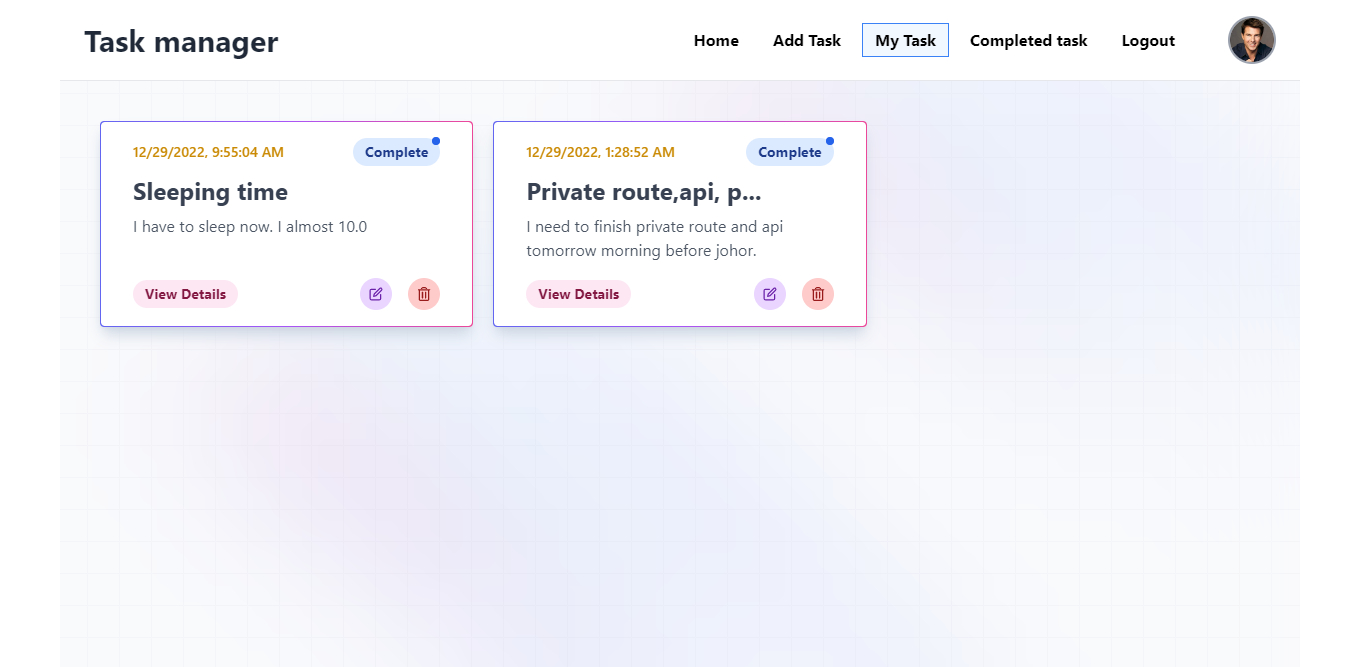
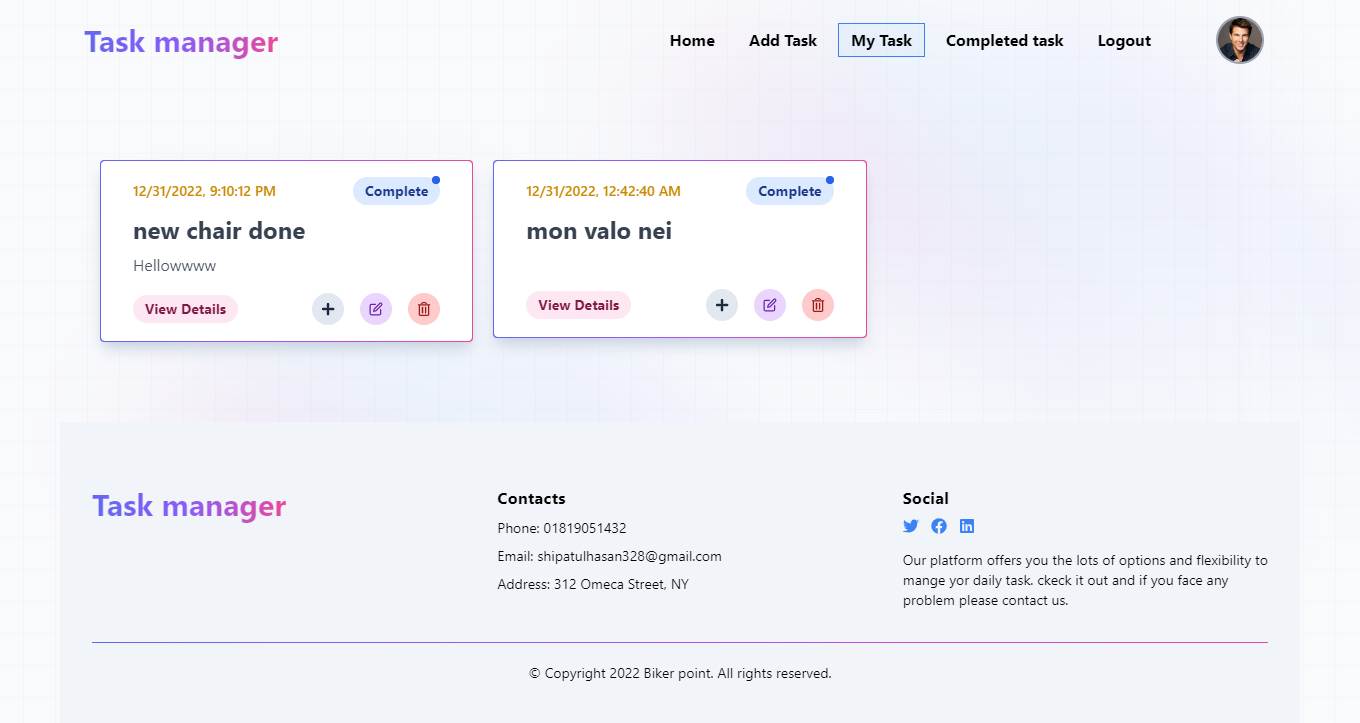
api updated

diff --git a/src/component/pages/MyTasks/MyTask.js b/src/component/pages/MyTasks/MyTask.js
@@ -3,12 +3,15 @@ import {useSelector,useDispatch} from 'react-redux'
 import { useNavigate } from 'react-router-dom';
 import { uploadImage } from '../../../api/uploadImage';
 import { deleteTask, fetchTasks, updateTask } from '../../../Slices/taskSlice';
+
 import UpdateTask from '../UpdateTask';
 import DetailsTask from './DetailsTask';
 import TaskCard from './TaskCard';
+import TaskSkeleton from './TaskSkeleton'
+
 
 const MyTask = ({myTasks}) => {
-    const {updateLoading,updateStatus,tasks} = useSelector(state=>state.tasks)
+    const {isLoading,updateLoading,tasks} = useSelector(state=>state.tasks)
     const {userInfo} = useSelector(state=>state.auth)
     const [taskDetails,setTaskDetails] = useState({})
     const [existingTask,setExistingTask] = useState({})
@@ -19,12 +22,8 @@ const MyTask = ({myTasks}) => {
    
     const dispatch = useDispatch()
     useEffect(()=>{
-        if(userInfo?.email||updateStatus){
-
-            dispatch(fetchTasks(userInfo?.email))
-        }
-        
-    },[updateStatus,userInfo?.email,dispatch])
+        dispatch(fetchTasks(userInfo?.email))   
+    },[userInfo?.email,dispatch])
 
     
 
@@ -161,17 +160,14 @@ const MyTask = ({myTasks}) => {
         }
         dispatch(updateTask({post,_id}))
         form.reset()
-        }
-
-        
+        }    
     }
-
     return (
-        // isLoading ? <TaskSkeleton /> :
-        <div className='p-10'>
+        // 
+        <div className='px-5 md:px-10 py-20'>
              <div className="grid gap-5 row-gap-5 sm:grid-cols-2 lg:grid-cols-3">
                  {
-                 myTasks.map(task=><TaskCard key={task._id} task={task} handleDetails={handleDetails} handleDelete={handleDelete} handleModal={handleModal} handleComplete={handleComplete} handleInComplete={handleInComplete} handleAddDetails={handleAddDetails} isLoading={updateLoading} />)
+              isLoading ? <TaskSkeleton /> : myTasks.map(task=><TaskCard key={task._id} task={task} handleDetails={handleDetails} handleDelete={handleDelete} handleModal={handleModal} handleComplete={handleComplete} handleInComplete={handleInComplete} handleAddDetails={handleAddDetails} isLoading={updateLoading} />)
                  }
              
                  {

diff --git a/src/component/pages/MyComments/MyComments.js b/src/component/pages/MyComments/MyComments.js
@@ -13,7 +13,6 @@ const MyComment = ({id}) => {
     const dispatch = useDispatch()
     useEffect(()=>{
        if(update || id) {
-
             dispatch(fetchCommnet(id))
         }
     },[id,dispatch,update])
@@ -33,16 +32,26 @@ const MyComment = ({id}) => {
         // console.log(commentDetails)
 
         dispatch(postCommnet(commentDetails))
+        form.reset()
     }
-if(commentLoading){
-    return <Loader height={'min-h-[10vh]'} />
-}
+
 
     return (
         <div className='space-y-4'>
-            <div>
-            {comments.map((comment,i)=><Comment key={comment._id} mycomment={comment} index={i===comments.length-1} />)}
+            {
+                comments.length>0 ? <div>
+                {comments.map((comment,i)=><Comment key={comment._id} mycomment={comment} index={i===comments.length-1} />)}
+                </div>
+                :
+                <div className='mx-auto w-full min-h-[40vh] h-full grid place-content-center'>
+               
+            <p className=" text-transparent bg-clip-text bg-gradient-to-r from-indigo-500 via-purple-500 to-pink-500">
+            No comments yet
+            </p>
+     
             </div>
+            }
+            
             <div>
 
             <CommentForm handleComment={handleComment} isLoading={commentLoading} />

diff --git a/src/Slices/taskSlice.js b/src/Slices/taskSlice.js
@@ -75,7 +75,6 @@ const taskSlice = createSlice({
     initialState:{
         isLoading:false,
         updateLoading:false,
-        updateStatus:true,
         tasks:[],
         addTask:{},
         error:null
@@ -87,7 +86,7 @@ const taskSlice = createSlice({
         builder.addCase(fetchTasks.fulfilled,(state,action)=>{
             state.isLoading=false
             state.tasks=action.payload
-            state.updateStatus=false
+            
             state.error=null
         })
         builder.addCase(fetchTasks.rejected,(state,action)=>{
@@ -113,8 +112,11 @@ const taskSlice = createSlice({
         })
         builder.addCase(updateTask.fulfilled,(state,action)=>{
             state.updateLoading=false
-            state.isLoading=false
-            state.updateStatus=true
+            const updatedTask = action.payload.updatedTask
+            const existingTask = state.tasks.filter(task=>task._id!==updatedTask._id)
+            console.log(existingTask)
+           state.tasks = [updatedTask,...existingTask]
+        
             state.error=null
         })
         builder.addCase(updateTask.rejected,(state,action)=>{

diff --git a/src/component/pages/CompletedTasks.js b/src/component/pages/CompletedTasks.js
@@ -1,23 +1,19 @@
 import React from 'react';
 import { useSelector } from 'react-redux';
 import MyTask from './MyTasks/MyTask';
-import TaskSkeleton from './MyTasks/TaskSkeleton';
 
 
 const CompletedTask = () => {
-    const {isloading,tasks} = useSelector(state=>state.tasks)
+    const {tasks} = useSelector(state=>state.tasks)
     
     const completed = tasks?.filter(task=>task.completed===true)
-    if(isloading){
-        return <TaskSkeleton />
-    }
 
     return (
         <>
         <MyTask myTasks={completed} />
         
         {
-            completed?.length===0 && <div className='mx-auto w-full min-h-[60vh] h-full grid place-content-center'>
+            completed?.length<1 && <div className='mx-auto w-full min-h-[60vh] h-full grid place-content-center'>
             <h2 className=" max-w-sm text-3xl font-bold tracking-tight text-gray-900 sm:text-4xl sm:leading-normal text-center">
         You don't have any  {" "}
         <span className=" text-transparent bg-clip-text bg-gradient-to-r from-indigo-500 via-purple-500 to-pink-500">

diff --git a/src/component/pages/MyTasks/DetailsTask.js b/src/component/pages/MyTasks/DetailsTask.js
@@ -27,7 +27,7 @@ const DetailsTask = ({
               role="alert"
               className="container mx-auto w-11/12 md:w-2/3 grid place-content-center min-h-[80vh] text-center"
             >
-              <div className="relative py-8 px-8 md:px-16 md:w-[500px] w-[400px] bg-white dark:bg-gray-800 dark:border-gray-700 shadow-md rounded border border-gray-400 space-y-6 ">
+              <div className="relative py-8 px-8 md:px-16 md:w-[500px] w-[400px] bg-white dark:bg-gray-800 dark:border-gray-700 shadow-md rounded border border-gray-400 space-y-6 max-h-[400px] overflow-y-scroll">
                 <div className="space-y-5 text-center">
                   <p className="text-sm  font-semibold  text-yellow-600 dark:text-gray-400">
                     {postDate}

diff --git a/src/component/pages/Home/Overview2.js b/src/component/pages/Home/Overview2.js
@@ -9,12 +9,12 @@ const Overview2 = () => {
 
         <div className="relative lg:w-1/2 border border-slate-200 rounded shadow-lg">
             <img
-              className=" object-contain w-full  h-56 sm:h-96 rounded "
+              className=" object-contain w-full h-56 sm:h-96 rounded "
               src={img}
               alt=""
             />
             <img
-              className="absolute bottom-0 right-[-25px] object-contain w-72 h-56 rounded "
+              className="absolute shadow-lg md:shadow-none bottom-[-20px] md:bottom-0 right-0 lg:right-[-25px] object-contain w-32 h-32 md:w-72 md:h-56 rounded "
               src={img2}
               alt=""
             />

diff --git a/src/component/pages/InCompleteTasks.js b/src/component/pages/InCompleteTasks.js
@@ -9,7 +9,7 @@ const InCompleteTasks = () => {
         <>
         <MyTask myTasks={incompleted} />
          {
-            incompleted.length===0&& <div className='mx-auto w-full min-h-[40vh] h-full grid place-content-center'>
+            incompleted.length<0 && <div className='mx-auto w-full min-h-[40vh] h-full grid place-content-center'>
                 <h2 className=" max-w-sm text-3xl font-bold tracking-tight text-gray-900 sm:text-4xl sm:leading-normal text-center">
             You don't have any  {" "}
             <span className=" text-transparent bg-clip-text bg-gradient-to-r from-indigo-500 via-purple-500 to-pink-500">

diff --git a/src/Slices/commentSlice.js b/src/Slices/commentSlice.js
@@ -36,6 +36,7 @@ const commentSlice = createSlice({
     name:"comments",
     initialState:{
         commentLoading:false,
+        
         comments:[],
         update:true,
         error:null
